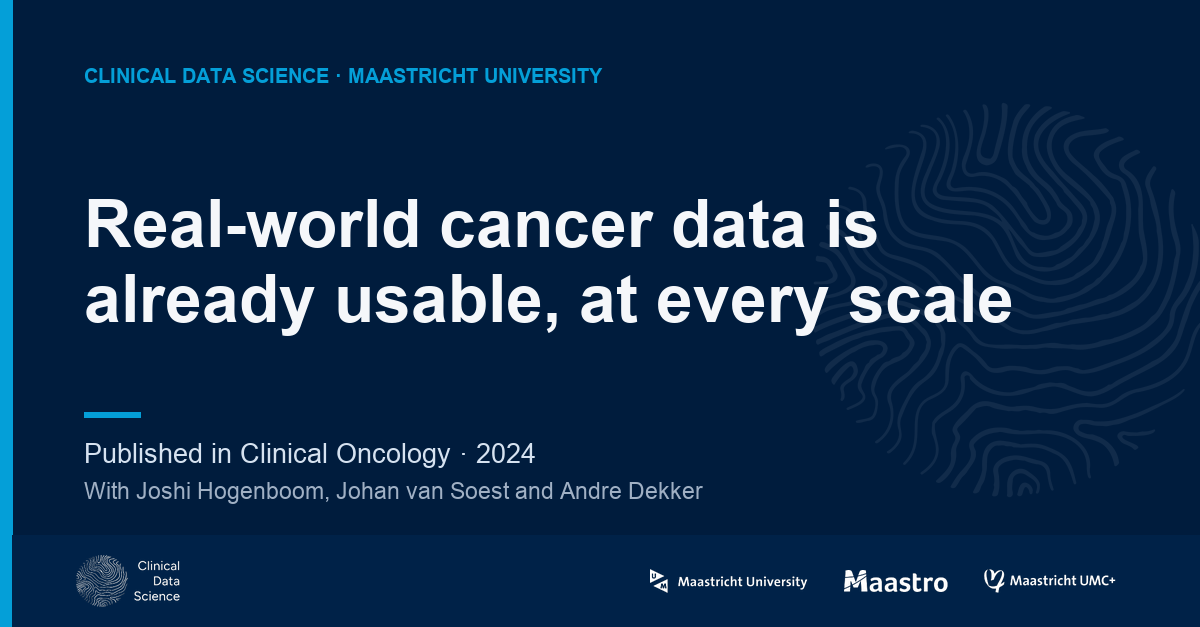
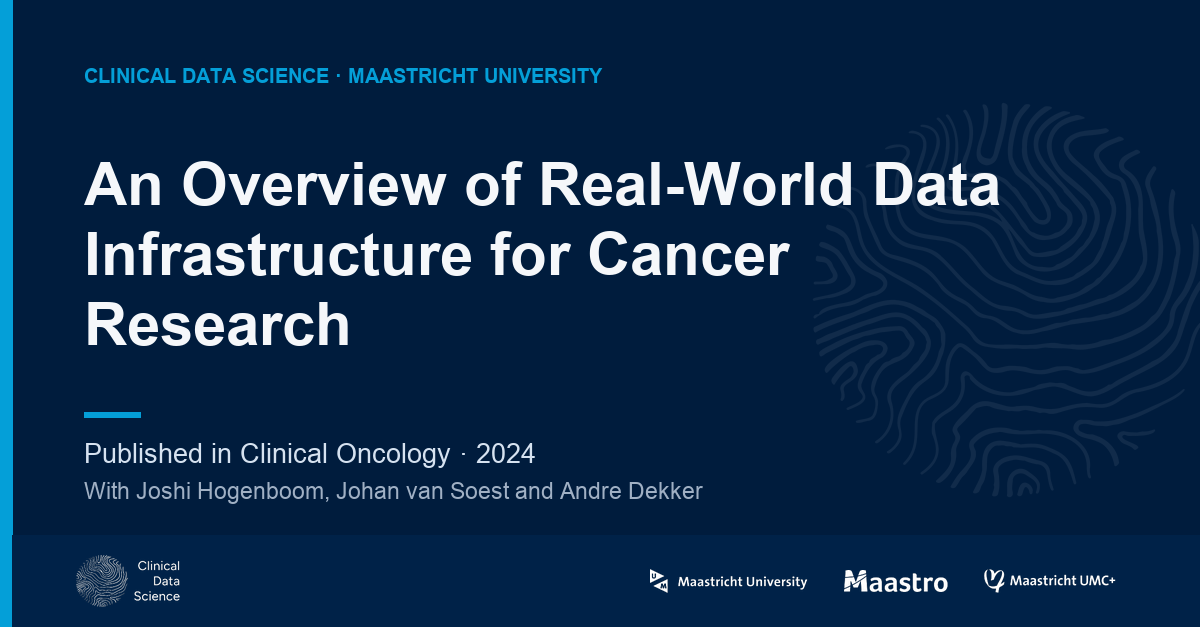
Social posts: original paper title on the card and 'New publication: <title>' above the post
Authors objected to edited titles. The card now shows the paper's own title (up to five lines, font shrinks to fit)
instead of a catchy headline, and every post opens with 'New publication: <original title>', added in code
(with_title / withTitle) so the title is never rewritten. The studio prompt no longer asks for a headline (older
replies with one still import). Existing drafts and their cards updated.

Changed region(s): [[0.0617, 0.2424, 0.8633, 0.5758]]

diff --git a/site/social-editor.js b/site/social-editor.js
@@ -48,13 +48,22 @@
     ].join("\n");
   }
 
-  const ANSWER_FIELDS = ["headline", "post", "comment", "short"];
+  // The card shows the paper's own title, so a reply needs no headline (one in an older reply is ignored).
+  const ANSWER_FIELDS = ["post", "comment", "short"];
+  const NEW_PUBLICATION = "New publication: ";
+  // Every post opens with "New publication: <original title>", added here and never by the chat, so the title is never
+  // rewritten. Same rule as pubpulse/social.py with_title().
+  function withTitle(post, title) {
+    const text = String(post || "").trim();
+    if (!title || text.toLowerCase().startsWith(NEW_PUBLICATION.trim().toLowerCase())) return text;
+    return `${NEW_PUBLICATION}${String(title).trim()}\n\n${text}`;
+  }
   // Used only if the site data did not bring the shared instructions.
   const FALLBACK_PROMPT = [
-    "Write a faithful, plain-language LinkedIn post (110 to 170 words, no links) about the research paper below, plus an image headline of at most 60 characters, a first comment with the title and links, and a two-sentence short version with the DOI link. Use only facts from the abstract.",
+    "Write a faithful, plain-language LinkedIn post (110 to 170 words, no links) about the research paper below, a first comment with the title and links, and a two-sentence short version with the DOI link. Use only facts from the abstract. The post is published under the line \"New publication: <paper title>\", which is added automatically: do not write it and do not rephrase the title.",
     "",
     "Reply with one JSON code block and nothing else:",
-    '```json\n{"headline": "...", "post": "...", "comment": "...", "short": "..."}\n```',
+    '```json\n{"post": "...", "comment": "...", "short": "..."}\n```',
   ].join("\n");
 
   function buildPrompt(paper, instructions = "") {
@@ -170,10 +179,10 @@
   function seedFor(paper, draft, shared) {
     const names = paper.group_authors || [];
     const seed = {
-      post: draft?.post || ["[The main finding in one plain sentence]", `Work by ${names.length ? list(names) : "[group authors]"} with colleagues.`, "[What was done, and why it matters.]", `Published in ${paper.journal || "[journal]"}.`, "#ClinicalDataScience #Maastro #MaastrichtUniversity"].join("\n\n"),
+      post: withTitle(draft?.post || ["[The main finding in one plain sentence]", `Work by ${names.length ? list(names) : "[group authors]"} with colleagues.`, "[What was done, and why it matters.]", `Published in ${paper.journal || "[journal]"}.`, "#ClinicalDataScience #Maastro #MaastrichtUniversity"].join("\n\n"), paper.title),
       comment: draft?.comment || [paper.title, `Paper: ${paper.link}`, paper.oa_url ? `Full text: ${paper.oa_url}` : ""].filter(Boolean).join("\n"),
       short: draft?.short || "",
-      headline: draft?.headline || paper.title,
+      headline: paper.title, // the original title, never rewritten
       proof: `Published in ${paper.journal || "a peer-reviewed journal"} · ${(paper.publication_date || "").slice(0, 4)}`.replace(/ · $/, ""),
       byline: names.length ? "With " + list(names) : "",
     };
@@ -201,7 +210,7 @@
             <button type="button" class="button button-small button-dark" data-act="paste-import">Paste &amp; import</button>
             <details class="se-manual"><summary>Or paste the JSON manually</summary>
               <label class="visually-hidden" for="se-answer">JSON reply from your AI chat</label>
-              <textarea class="se-answer" id="se-answer" rows="5" spellcheck="false" aria-describedby="se-import-message" placeholder='{"headline":"…","post":"…","comment":"…","short":"…"}'></textarea>
+              <textarea class="se-answer" id="se-answer" rows="5" spellcheck="false" aria-describedby="se-import-message" placeholder='{"post":"…","comment":"…","short":"…"}'></textarea>
               <button type="button" class="button button-small button-ghost" data-act="import">Import JSON</button>
             </details>
           </div>
@@ -235,7 +244,7 @@
               <button type="button" class="link se-reset" data-act="reset-text">Restore original text</button>
             </div>
             <div id="se-panel-card" role="tabpanel" aria-labelledby="se-tab-card" hidden>
-              <label class="se-label" for="se-headline">Image headline <span class="se-hcount"></span></label>
+              <label class="se-label" for="se-headline">Title on image <span class="se-hcount"></span></label>
               <input class="se-headline se-field" id="se-headline" type="text" />
               <label class="se-label" for="se-proof">Published line</label>
               <input class="se-proof se-field" id="se-proof" type="text" />
@@ -298,7 +307,7 @@
       if (!isCurrent()) return;
       const current = ++revision;
       const length = f.headline.value.trim().length;
-      q(".se-hcount").textContent = `${length} / 60 characters`;
+      q(".se-hcount").textContent = `${length} characters · the paper's original title`;
       cardBlob = null;
       exportReady(false);
       drawCard(canvas, { headline: f.headline.value, proof: f.proof.value, byline: f.byline.value, photo })
@@ -318,15 +327,15 @@
       if (!answer) {
         if (!quiet) {
           q(".se-answer").setAttribute("aria-invalid", "true");
-          message('Could not import. Copy the complete JSON reply with non-empty "headline", "post", "comment" and "short" fields. Your draft has been kept.', "error");
+          message('Could not import. Copy the complete JSON reply with non-empty "post", "comment" and "short" fields. Your draft has been kept.', "error");
         }
         return false;
       }
       q(".se-answer").removeAttribute("aria-invalid");
-      for (const key of ANSWER_FIELDS) f[key].value = answer[key];
+      for (const key of ANSWER_FIELDS) f[key].value = key === "post" ? withTitle(answer.post, paper.title) : answer[key];
       refreshText(); refreshCard(); setEditor("post");
       const flags = (ANSWER_FIELDS.map(key => answer[key]).join("\n").match(/\[check[^\]]*\]/g) || []).length;
-      message(flags ? `Draft imported. Review ${flags} marked ${flags === 1 ? "claim" : "claims"} before sharing.` : "Draft imported. The post, comment, short version and card headline are ready to edit.", "success");
+      message(flags ? `Draft imported. Review ${flags} marked ${flags === 1 ? "claim" : "claims"} before sharing.` : "Draft imported. The post, comment and short version are ready to edit.", "success");
       q(".se-import-badge").textContent = "JSON imported";
       q(".se-import-badge").classList.add("is-imported");
       q(".se-workspace").scrollIntoView({ behavior: matchMedia("(prefers-reduced-motion: reduce)").matches ? "instant" : "smooth", block: "start" });
@@ -514,18 +523,19 @@
         while (text && ctx.measureText(text + " …").width > maxW) text = text.slice(0, -1).trimEnd();
         return text + " …";
       };
-      // headline: up to 3 lines, font shrinks to fit
+      // title: up to 5 lines, font shrinks to fit (titles run to 250 characters); same layout as pubpulse/images.py
       const width = textRight - M;
-      let size = 66, lines;
+      const MAX_LINES = 5, TOP = 120, ZONE = 270;
+      let size = 60, lines;
       for (;;) {
         ctx.font = font(size, true);
         lines = wrap(card.headline.trim(), width);
-        if (lines.length <= 3 || size <= 40) break;
-        size -= 4;
+        if ((lines.length <= MAX_LINES && lines.length * Math.round(size * 1.18) <= ZONE) || size <= 32) break;
+        size -= 2;
       }
-      if (lines.length > 3) { lines = lines.slice(0, 3); lines[2] = ellipsis(lines[2], width); }
-      const lh = Math.round(size * 1.15);
-      let y = 150 + Math.floor((3 * Math.round(66 * 1.15) - lines.length * lh) / 2);
+      if (lines.length > MAX_LINES) { lines = lines.slice(0, MAX_LINES); lines[MAX_LINES - 1] = ellipsis(lines[MAX_LINES - 1], width); }
+      const lh = Math.round(size * 1.18);
+      let y = TOP + Math.floor((ZONE - lines.length * lh) / 2);
       ctx.fillStyle = "#f5f7fa";
       for (const line of lines) { ctx.fillText(line, M, y); y += lh; }
       // accent rule, proof line, byline

diff --git a/site/social.html b/site/social.html
@@ -66,7 +66,7 @@
           <li>
             <b>Check every claim</b>
             <span
-              >Read the post and the image headline next to the abstract.
+              >Read the post next to the abstract.
               Resolve and remove any <code>[check]</code> marks. Use
               <i>Copy review link</i> to let the co-authors check it before
               you post.</span
@@ -92,9 +92,10 @@
           <b>Before you post</b>
           <ul>
             <li>
-              The headline says no more than the abstract's conclusion: no
-              "now", no effect on patients or care, no "first" or
-              "breakthrough" unless the abstract says so.
+              The post opens with "New publication:" and the paper's original
+              title, also on the image. Its first finding says no more than the
+              abstract's conclusion: no "now", no effect on patients or care, no
+              "first" or "breakthrough" unless the abstract says so.
             </li>
             <li>Let the first author read the draft.</li>
             <li>Preprints are not posted.</li>

diff --git a/pubpulse/social.py b/pubpulse/social.py
@@ -29,7 +29,7 @@ or weaknesses: that is for the paper itself.
 Write four things from the paper you are given:
 
 ### HEADLINE
-The main point as a catchy, plain-language line for an image card: at most 60 characters, no jargon, no question,
+The main point as a catchy, plain-language line for the newsletter (the image card shows the paper's own title): at most 60 characters, no jargon, no question,
 no clickbait, no exclamation mark. Example style: "Privacy protection that costs nothing in accuracy".
 The headline restates the abstract's OWN main conclusion in plainer words, and nothing more. Never add a claim the
 abstract does not make: no effect on patients or care, no adoption or routine use, no "now", no cause and effect,
@@ -37,7 +37,9 @@ unless the abstract says exactly that. For a method, a tool, a proof of concept 
 shown or made possible, not that it changed practice. The authors must be able to read the headline and agree.
 
 ### POST
-A LinkedIn post of 110 to 170 words, with NO links in it (links go in the first comment):
+A LinkedIn post of 110 to 170 words, with NO links in it (links go in the first comment). It is published under a
+first paragraph "New publication: <paper title>" that is added automatically: do not write that line, and do not
+repeat or rephrase the title anywhere in the post.
 - line 1: the main finding as an inviting, plain sentence (no question hooks, no "excited"), as faithful as the headline
 - line 2: the group authors by name, e.g. "Work by A, B and C with colleagues from X" (the poster will tag them)
 - then: what was done, in one or two sentences (data, size, method), in everyday words
@@ -70,21 +72,21 @@ emojis, no "excited to share", no limitations. Use only facts from the abstract:
 "novel" or "breakthrough" unless the abstract says so; never make a claim stronger than the abstract does ("can"
 stays "can", a proof of concept stays a proof of concept). Mark anything you are unsure about with [check].
 
-Write four parts:
-1. headline: the abstract's own main conclusion in plain words, at most 60 characters, for an image card. Add nothing
-   the abstract does not say: no effect on patients or care, no adoption, no "now", no cause and effect. No question,
-   no exclamation mark. The authors must be able to agree with it.
-2. post: 110 to 170 words, no links, in short paragraphs: the main finding in one plain sentence; "Work by <group
+Write three parts:
+1. post: 110 to 170 words, no links, in short paragraphs. The post is published under the line "New publication:
+   <paper title>", which is added automatically: do not write it, and do not repeat or rephrase the title. Then: the
+   main finding in one plain sentence (the abstract's own conclusion; nothing about effects on patients or care,
+   adoption, "now" or cause and effect unless the abstract says so); "Work by <group
    authors> with colleagues."; what was done (data, size, method) in everyday words; why it matters, in the
    abstract's own terms; "The full paper is linked in the comments."; "Published in <journal>."; and last, four
    hashtags: #ClinicalDataScience #Maastro #MaastrichtUniversity and one topical tag.
-3. comment: the paper title, then "Paper: <DOI link>", then "Full text: <open-access link>" if there is one, each on
+2. comment: the paper title, then "Paper: <DOI link>", then "Full text: <open-access link>" if there is one, each on
    its own line.
-4. short: two sentences, at most 280 characters, ending with the DOI link.
+3. short: two sentences, at most 280 characters, ending with the DOI link.
 
 Reply with one JSON code block and nothing else:
 ```json
-{"headline": "...", "post": "...", "comment": "...", "short": "..."}
+{"post": "...", "comment": "...", "short": "..."}
 ```"""
 
 
@@ -120,6 +122,18 @@ def parse_output(text: str) -> dict:
             "short": (short.group(1) if short else "").strip()}
 
 
+NEW_PUBLICATION = "New publication: "
+
+
+def with_title(post: str, title: str | None) -> str:
+    """The post opens with "New publication: <original title>" (LinkedIn shows the first paragraph in bold). Added in
+    code, never by the model, so the title is never rewritten; a post that already has the line is left alone."""
+    post = (post or "").strip()
+    if not title or post.lower().startswith(NEW_PUBLICATION.strip().lower()):
+        return post
+    return f"{NEW_PUBLICATION}{title.strip()}\n\n{post}"
+
+
 def draft_one(client, w: dict, names: dict[str, str], model: str) -> dict:
     import anthropic  # local import: optional dependency outside the workflow
 
@@ -139,6 +153,7 @@ def draft_one(client, w: dict, names: dict[str, str], model: str) -> dict:
         raise RuntimeError("the model declined this paper")
     text = "".join(b.text for b in response.content if b.type == "text")
     out = parse_output(text)
+    out["post"] = with_title(out["post"], w["title"])
     out.update({
         "id": w["id"], "title": w["title"], "doi": w.get("doi"), "model": response.model,
         "generated_at": datetime.now(timezone.utc).isoformat(timespec="seconds"),

diff --git a/pubpulse/images.py b/pubpulse/images.py
@@ -19,6 +19,7 @@ log = logging.getLogger(__name__)
 IMG_DIR = SOCIAL_DIR / "images"
 CARD_SIZE = (1200, 627)
 NAVY, LIGHT, ACCENT, MUTED = (0, 28, 61), (245, 247, 250), (4, 159, 216), (160, 176, 196)
+TITLE_LINES, TITLE_TOP, TITLE_ZONE = 5, 120, 270  # the title block sits between the eyebrow and the proof line (y 412)
 FONT_CANDIDATES = {
     "regular": ["/usr/share/fonts/truetype/dejavu/DejaVuSans.ttf", "/System/Library/Fonts/Supplemental/Arial.ttf", "/Library/Fonts/Arial.ttf"],
     "bold": ["/usr/share/fonts/truetype/dejavu/DejaVuSans-Bold.ttf", "/System/Library/Fonts/Supplemental/Arial Bold.ttf", "/Library/Fonts/Arial Bold.ttf"],
@@ -79,8 +80,8 @@ def _ellipsis(text: str, font, max_width: int, draw) -> str:
 
 
 def make_card(w: dict, names: dict[str, str], out_path: Path, group_label: str = "Clinical Data Science · Maastricht University", finding: str | None = None) -> Path:
-    """Branded 1200x627 card built for one message: a large headline (the catchy main point), one proof line
-    (journal and year), one byline (group authors), quiet branding. Title and DOI live in the post and the comment."""
+    """Branded 1200x627 card: the paper's own title (never rewritten: authors asked for it), one proof line (journal
+    and year), one byline (group authors), quiet branding. The DOI lives in the first comment."""
     from PIL import Image, ImageDraw
 
     W, H = CARD_SIZE
@@ -99,22 +100,22 @@ def make_card(w: dict, names: dict[str, str], out_path: Path, group_label: str =
     # eyebrow
     d.text((M, 64), group_label.upper(), font=_font(20, True), fill=ACCENT)
 
-    # headline: 3 lines max, size adapts
+    # title: up to 5 lines, size adapts (titles run to 250 characters), centred in the zone above the proof line
     headline = (finding or w["title"]).strip()
     width = W - 2 * M - 60
-    size = 66
+    size = 60
     while True:
         hf = _font(size, True)
         lines = _wrap(headline, hf, width, d)
-        if len(lines) <= 3 or size <= 40:
+        if (len(lines) <= TITLE_LINES and len(lines) * int(size * 1.18) <= TITLE_ZONE) or size <= 32:
             break
-        size -= 4
-    if len(lines) > 3:
-        lines = lines[:3]
+        size -= 2
+    if len(lines) > TITLE_LINES:
+        lines = lines[:TITLE_LINES]
         lines[-1] = _ellipsis(lines[-1], hf, width, d)
-    lh = int(size * 1.15)
+    lh = int(size * 1.18)
     block_h = len(lines) * lh
-    y = 150 + (3 * int(66 * 1.15) - block_h) // 2  # keep the block vertically centred in its zone
+    y = TITLE_TOP + (TITLE_ZONE - block_h) // 2
     for line in lines:
         d.text((M, y), line, font=hf, fill=LIGHT)
         y += lh
@@ -316,15 +317,6 @@ def credit_line(w: dict) -> str:
     return f"Figure from {first}{' et al.' if many else ''}, {w.get('journal') or ''} ({(w.get('publication_date') or '')[:4]}), {w.get('license', '').upper()} · {w.get('doi') or ''}"
 
 
-def main_finding(draft: dict) -> str | None:
-    """The card headline: the catchy headline when the draft has one, else the first line of the post."""
-    if draft.get("headline"):
-        return draft["headline"].strip()
-    post = (draft.get("post") or "").strip()
-    if not post:
-        return None
-    first = post.split("\n")[0].strip()
-    return first if 20 <= len(first) <= 260 else None
 
 
 def run(ids: list[str] | None = None, all_drafts: bool = False, force: bool = False) -> int:
@@ -350,7 +342,7 @@ def run(ids: list[str] | None = None, all_drafts: bool = False, force: bool = Fa
             continue
         card = IMG_DIR / f"{d['id']}-card.png"
         if force or not card.exists():
-            make_card(w, names, card, finding=main_finding(d))
+            make_card(w, names, card)
             cards += 1
         d["card"] = f"data/social/images/{card.name}"
         fig = IMG_DIR / f"{d['id']}-figure.png"

diff --git a/tests/test_images.py b/tests/test_images.py
@@ -34,12 +34,12 @@ def test_extract_figures_from_synthetic_pdf():
     assert "et al." in credit_line({"authors": ["X", "Y"], "author_count": 2, "journal": "J", "publication_date": "2026-01-01", "license": "cc-by", "doi": "d"})
 
 
-def test_main_finding_and_card_with_finding(tmp_path):
+def test_card_shows_the_original_title_even_when_long(tmp_path):
     from PIL import Image
-    from pubpulse.images import main_finding, make_card
-    d = {"post": "Two privacy techniques kept hazard ratios almost unchanged while hiding individual time-to-event data.\n\nMore text."}
-    f = main_finding(d)
-    assert f and f.startswith("Two privacy techniques")
-    out = make_card({"title": "T", "journal": "J", "publication_date": "2026-01-01", "group_members": [], "doi": "https://doi.org/x"}, {}, tmp_path / "c.png", finding=f)
-    assert Image.open(out).size == (1200, 627)
-    assert main_finding({"post": "short"}) is None
+    from pubpulse.images import make_card
+    long_title = ("Development, validation, and pilot-testing of a comprehensive patient-reported EORTC custom "
+                  "questionnaire for monitoring real-world tyrosine kinase toxicity in chronic myeloid leukemia")
+    for title in ["T", long_title]:
+        out = make_card({"title": title, "journal": "J", "publication_date": "2026-01-01", "group_members": [],
+                         "doi": "https://doi.org/x"}, {}, tmp_path / "c.png")
+        assert Image.open(out).size == (1200, 627)

diff --git a/tests/test_social.py b/tests/test_social.py
@@ -24,3 +24,11 @@ def test_user_message_contains_facts():
          "group_members": ["a"], "authors": ["X", "Y"], "author_count": 2, "doi": "https://doi.org/1", "oa_url": None, "abstract": "ABS"}
     m = user_message(w, {"a": "Ann A"})
     assert "Ann A" in m and "https://doi.org/1" in m and "ABS" in m and "Open-access link: none" in m
+
+
+def test_post_opens_with_new_publication_and_the_original_title():
+    from pubpulse.social import with_title
+    post = with_title("Main finding.\n\nMore.", "Original Paper Title")
+    assert post == "New publication: Original Paper Title\n\nMain finding.\n\nMore."
+    assert with_title(post, "Original Paper Title") == post  # never added twice
+    assert with_title("Main finding.", None) == "Main finding."

diff --git a/README.md b/README.md
@@ -229,9 +229,10 @@ making a LinkedIn post for a paper, in three steps, without connecting an accoun
 1. **Choose the paper**: use its LinkedIn post link in the publication overview, or paste a DOI. Papers outside pubpulse are looked up live in OpenAlex,
    and CDS authors are recognised by their OpenAlex id or ORCID.
 2. **Create a draft**: *Copy prompt* copies the writing guidelines and selected paper, with a JSON-only output contract
-   for `headline`, `post`, `comment` and `short`. Paste it into ChatGPT or another AI chat, copy the complete reply, then
+   for `post`, `comment` and `short`. Paste it into ChatGPT or another AI chat, copy the complete reply, then
    choose *Paste & import*. If clipboard access is unavailable, open *Or paste the JSON manually* and paste it there.
-   The importer accepts raw or fenced JSON and validates all four fields before replacing the draft.
+   The importer accepts raw or fenced JSON and validates all three fields before replacing the draft (a `headline` in
+   an older reply is ignored). The studio puts "New publication: <original title>" above the imported post.
 3. **Edit and export**: separate *Post text* and *Card image* tabs keep the controls compact, alongside a live preview.
    Copy the post and first comment, then copy or download the 1200 × 627 PNG card. A short version for other channels
    is available under the post editor. Optional photos stay in the current browser tab.
@@ -246,14 +247,18 @@ Preprints and datasets are not posted.
 **Writing rules** (`SYSTEM_PROMPT` in pubpulse/social.py, shared by the pipeline and the studio): the post is an advert
 for the paper (no limitations), but every statement must be true to the abstract. The headline restates the abstract's
 own conclusion and never adds impact, adoption, "now" or causality the abstract does not state; a proof of concept
-stays a proof of concept. (Added after an author found a headline that overstated his paper.)
+stays a proof of concept. (Added after an author found a headline that overstated his paper.) The paper title is never
+rewritten: authors objected to edited titles, so the card shows the original title and every post opens with
+"New publication: <original title>", added in code (`with_title`), not by the model. The pipeline's headline is used
+only in the newsletter.
 
 ### Social posts: what goes where (design decisions)
 
-- **Card image**: one idea only. A catchy headline (max ~60 characters), a proof line "Published in <journal> · <year>",
-  a byline with the group authors, and quiet branding (eyebrow, emblem watermark, footer logos). The paper title and the
-  DOI are deliberately *not* on the card: at feed size they are unreadable and they compete with the headline.
-- **Post text**: an advert for the paper: the finding as first line, the group authors second (to tag), what/why in plain words, an invitation to read (no limitations),
+- **Card image**: the paper's original title (up to five lines; the font shrinks for long titles), a proof line
+  "Published in <journal> · <year>", a byline with the group authors, and quiet branding (eyebrow, emblem watermark,
+  footer logos). No DOI on the card. (Until November 2026 the card carried a catchy headline instead; authors preferred
+  their own title.)
+- **Post text**: opens with "New publication: <original title>" (bold on LinkedIn), then an advert for the paper: the finding, the group authors second (to tag), what/why in plain words, an invitation to read (no limitations),
   the journal last. No links in the body (LinkedIn reduces reach of posts with external links).
 - **First comment**: the full paper title, the DOI and the open-access link. That is where readers look things up.
 - **Which papers**: counted journal articles and reviews with an abstract of at least 80 words (shorter ones are
